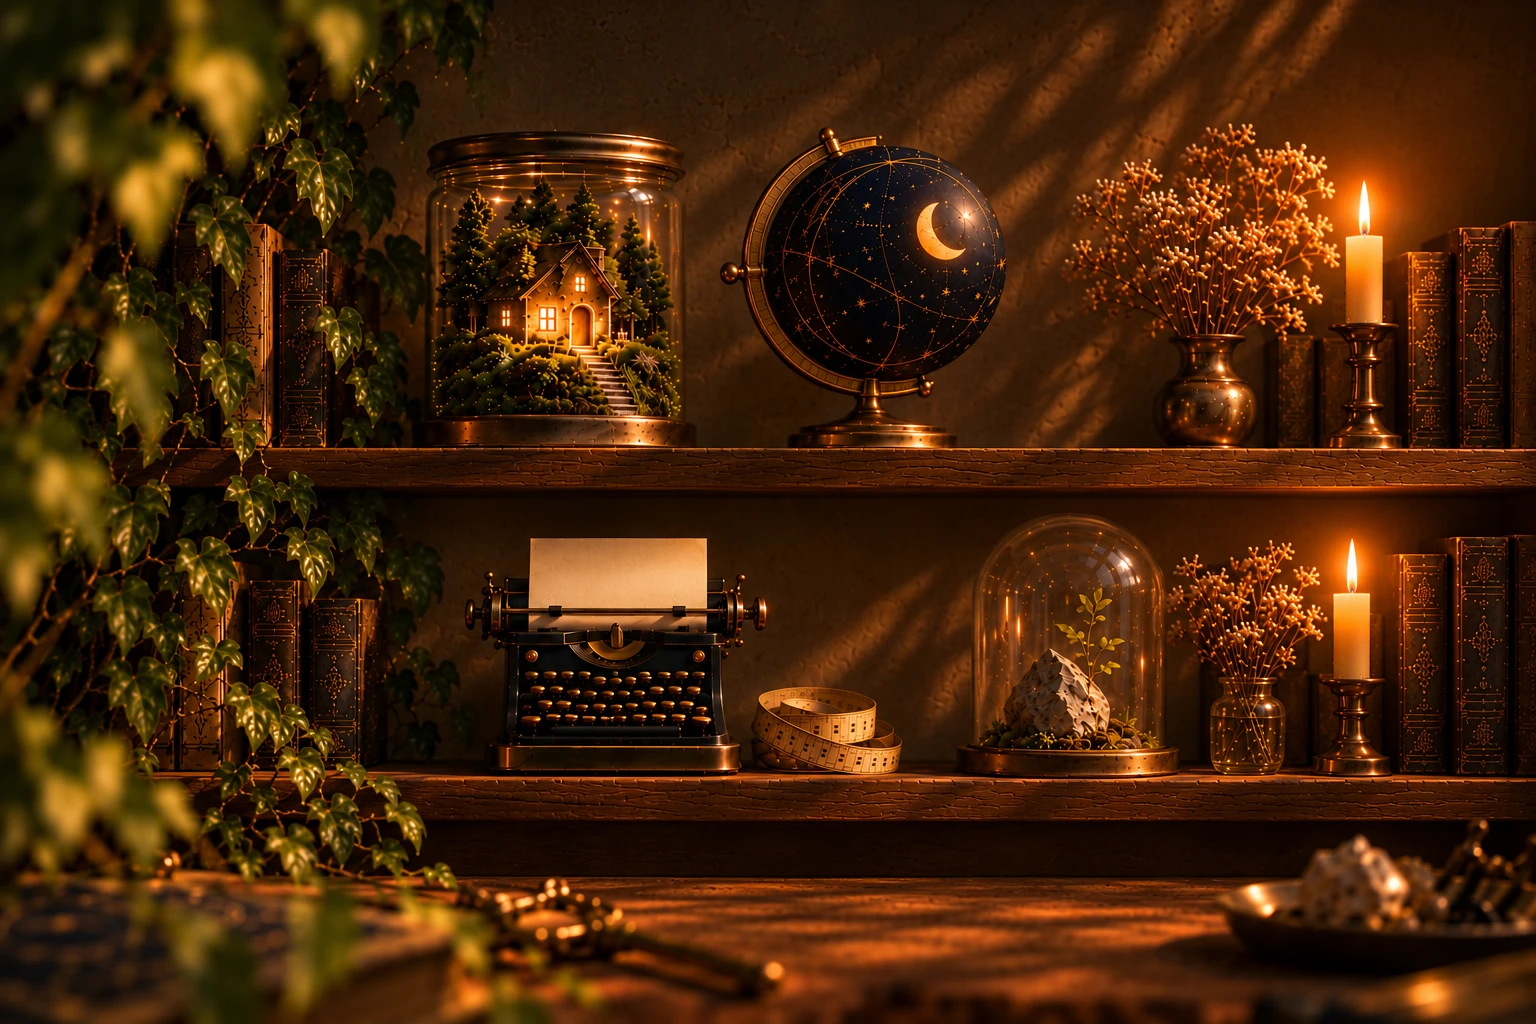
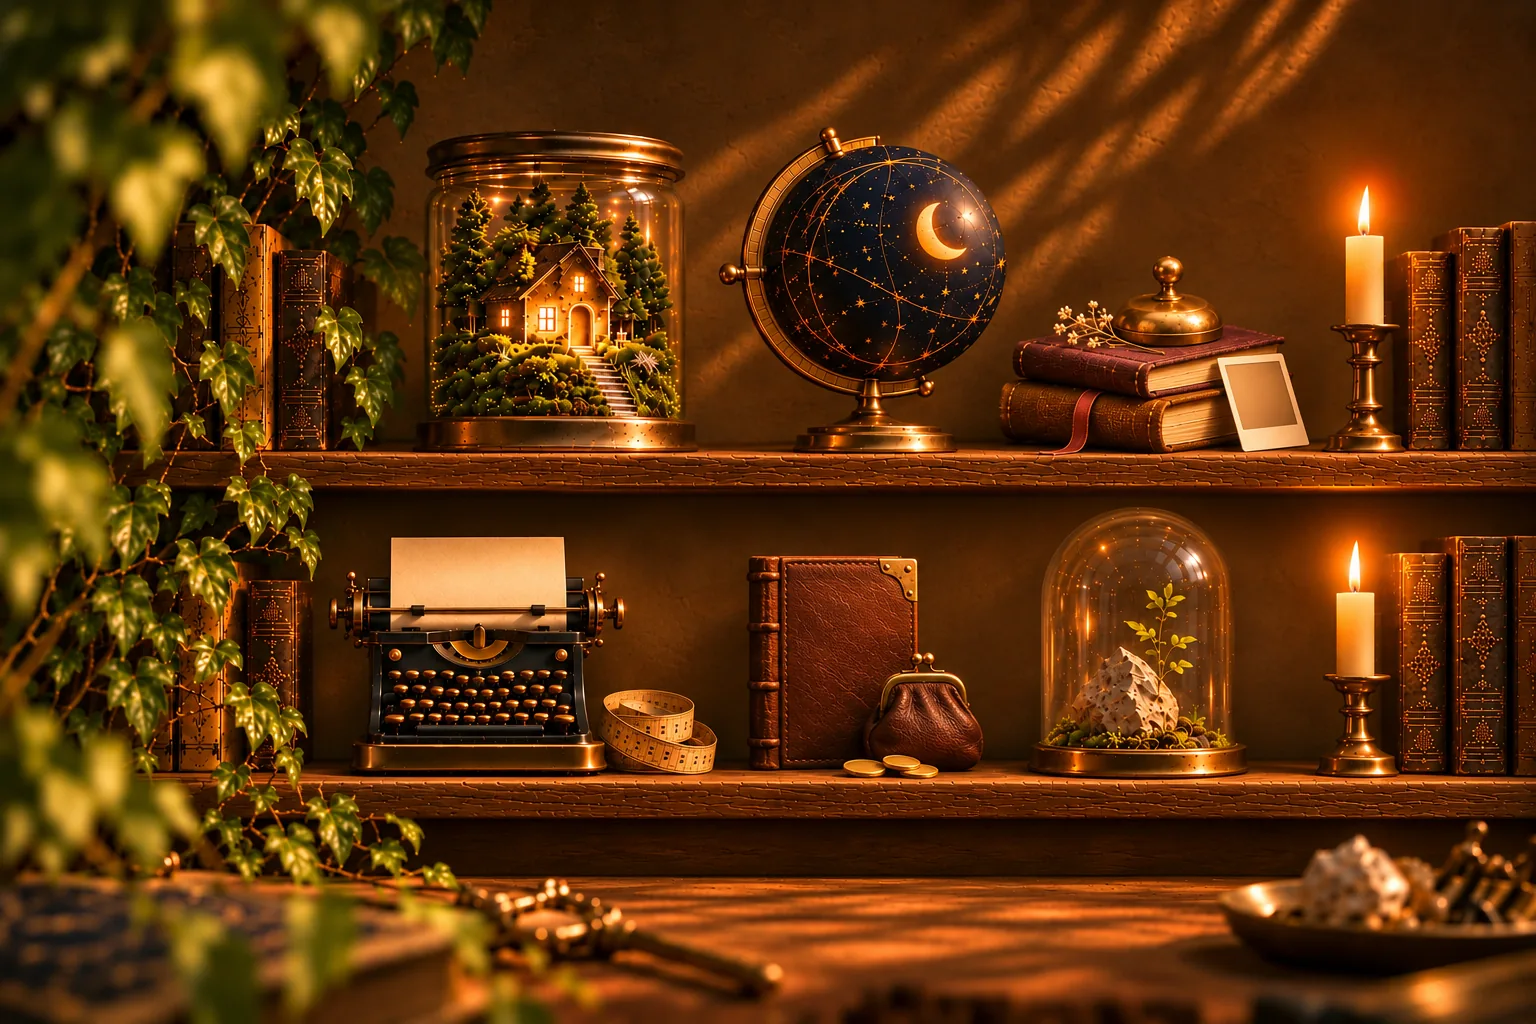
Shelf: Journal (notebooks) and Expenses (ledger) join; dome moves last
New desk and phone paintings (ChatGPT, objects seated on the shelves), boxes
measured, words in EN/PT, phone picture kept centred on its objects (--fx),
share picture from the new scene, tests for the new links.

diff --git a/index.html b/index.html
@@ -4,14 +4,14 @@
 <meta charset="utf-8">
 <meta name="viewport" content="width=device-width, initial-scale=1, viewport-fit=cover">
 <!-- csp-meta: only this site's own scripts run (refresh with ~/bin/csp-meta after editing an inline script) -->
-<meta http-equiv="Content-Security-Policy" content="default-src 'self'; script-src 'self' 'sha256-2IF1OqlYQEsPupU5Mrj3Qv8UhEPG8o6AQ3j7c6CNrDo=' 'sha256-Q251S3Dwxf5ZvD4Dosj3OUp2luLpG5qocmvu0SJpms0=' 'sha256-V5qJba2Pfl34pHXr5tflSMB61vARUx4poZzLZG+ElkI='; style-src 'self' 'unsafe-inline' https://fonts.googleapis.com; font-src 'self' https://fonts.gstatic.com; img-src 'self' data: blob: https:; media-src 'self' data: blob:; connect-src 'self'; frame-src 'none'; worker-src 'self' blob:; object-src 'none'; base-uri 'self'; form-action 'self'">
+<meta http-equiv="Content-Security-Policy" content="default-src 'self'; script-src 'self' 'sha256-2IF1OqlYQEsPupU5Mrj3Qv8UhEPG8o6AQ3j7c6CNrDo=' 'sha256-HP7qtzkDvTQrwBIE5cVG3Av946qu8h9AoY9tzcp2Ok4=' 'sha256-V5qJba2Pfl34pHXr5tflSMB61vARUx4poZzLZG+ElkI='; style-src 'self' 'unsafe-inline' https://fonts.googleapis.com; font-src 'self' https://fonts.gstatic.com; img-src 'self' data: blob: https:; media-src 'self' data: blob:; connect-src 'self'; frame-src 'none'; worker-src 'self' blob:; object-src 'none'; base-uri 'self'; form-action 'self'">
 <title>App do Ivo · Small Apps for a Bigger Life</title>
-<meta name="description" content="Small apps by Ivo Lopes, each one an object on the shelf: Festa, Astro, Job, and more to come.">
+<meta name="description" content="Small apps by Ivo Lopes, each one an object on the shelf: Festa, Astro, Journal, Job, Expenses, and more to come.">
 <meta property="og:title" content="App do Ivo · Small Apps for a Bigger Life">
 <meta property="og:description" content="Small apps by Ivo Lopes, each one an object on the shelf.">
 <meta property="og:url" content="https://appdoivo.com">
 <meta property="og:type" content="website">
-<meta property="og:image" content="https://appdoivo.com/og-image.png?v=7">
+<meta property="og:image" content="https://appdoivo.com/og-image.png?v=8">
 <meta property="og:image:width" content="1200">
 <meta property="og:image:height" content="630">
 <meta name="twitter:card" content="summary_large_image">
@@ -22,8 +22,8 @@
 <meta name="theme-color" content="#2b1b0f">
 <meta name="color-scheme" content="light dark">
 <script>try{var t=localStorage.getItem("theme");if(t)document.documentElement.dataset.theme=t}catch(e){}</script>
-<link rel="preload" as="image" href="img/scene/shelf-desk.webp?v=1" media="(min-width: 721px)">
-<link rel="preload" as="image" href="img/scene/shelf-phone.webp?v=1" media="(max-width: 720px)">
+<link rel="preload" as="image" href="img/scene/shelf-desk.webp?v=2" media="(min-width: 721px)">
+<link rel="preload" as="image" href="img/scene/shelf-phone.webp?v=2" media="(max-width: 720px)">
 <link rel="preconnect" href="https://fonts.googleapis.com">
 <link rel="preconnect" href="https://fonts.gstatic.com" crossorigin>
 <link href="https://fonts.googleapis.com/css2?family=Cormorant+Garamond:wght@600;700&family=EB+Garamond:wght@400;500&display=swap" rel="stylesheet">
@@ -56,8 +56,12 @@
      Its edges are cropped on screens of another shape; the apps sit near the middle. */
   /* Reaches past every screen edge, so nothing shows behind floating browser bars */
   .stage { position: absolute; top: 0; left: 0; right: 0; height: calc(100vh + 160px + var(--below)); height: calc(100lvh + 160px + var(--below)); overflow: hidden; }
-  .scene { --w: 1536; --h: 1024; position: absolute; left: 50%; top: calc(160px + (100lvh + var(--below)) / 2); translate: -50% -50%; z-index: 1; container-type: inline-size;
-    width: max(100vw, calc((100lvh + var(--below)) * var(--w) / var(--h))); aspect-ratio: var(--w) / var(--h); }
+  /* --fx: the point of the picture (0 to 1 across) kept in the middle of the screen; the
+     clamp stops the picture's edge from ever coming inside the screen */
+  .scene { --w: 1536; --h: 1024; --fx: .5; --sw: max(100vw, calc((100lvh + var(--below)) * var(--w) / var(--h)));
+    position: absolute; left: clamp(calc(100vw - var(--sw)), calc(50vw - var(--sw) * var(--fx)), 0px); top: calc(160px + (100lvh + var(--below)) / 2); translate: 0 -50%; z-index: 1; container-type: inline-size;
+    width: var(--sw); aspect-ratio: var(--w) / var(--h); }
+  .scene.phone { --fx: .62; }   /* the phone painting's objects sit right of centre */
   .scene > img { position: absolute; inset: 0; width: 100%; height: 100%; display: block; filter: brightness(var(--dim)) saturate(var(--sat)); }
   .scene::after { content: ""; position: absolute; inset: 0; pointer-events: none; opacity: var(--glow); mix-blend-mode: screen;
     background: radial-gradient(45% 50% at 82% 55%, rgba(255, 170, 70, .28), transparent 70%), radial-gradient(30% 30% at 18% 52%, rgba(255, 190, 90, .18), transparent 70%); }
@@ -118,29 +122,37 @@
   // (x, y, w, h). To add an app: ask ChatGPT
   // for the scene with the new object, then measure its box here (?debug shows the boxes).
   const SCENES = {
-    desk: { src: "img/scene/shelf-desk.webp?v=1", w: 1536, h: 1024, apps: {
-      festa: [27.7, 12.7, 17.6, 30.8], astro: [46.9, 12.2, 18.6, 31.4], job: [28.3, 52.2, 30.3, 23.1, 35.8], soon: [62.4, 50.3, 14.3, 25.4] } },
-    phone: { src: "img/scene/shelf-phone.webp?v=1", w: 1024, h: 1536, apps: {
-      festa: [37.6, 6.0, 25.7, 19.1], astro: [39.4, 29.9, 23.3, 15.4], job: [35.2, 50.7, 39.1, 14.8, 36], soon: [40.0, 69.0, 23.0, 17.9] } },
+    desk: { src: "img/scene/shelf-desk.webp?v=2", w: 1536, h: 1024, apps: {
+      festa: [27.3, 12.7, 18.1, 31.4], astro: [47.0, 12.3, 18.5, 32.0], journal: [65.0, 22.0, 20.4, 22.3],
+      job: [21.5, 52.3, 25.4, 23.6, 37], expenses: [48.5, 54.2, 15.7, 21.7], soon: [67.3, 49.2, 13.7, 26.7] } },
+    phone: { src: "img/scene/shelf-phone.webp?v=2", w: 1024, h: 1536, apps: {
+      festa: [36.4, 5.9, 21.3, 19.7], astro: [40.0, 29.5, 22.6, 16.2], journal: [61.0, 11.0, 29.5, 14.6],
+      job: [34.8, 50.5, 40.7, 15.3, 36], expenses: [34.1, 72.0, 24.3, 14.9], soon: [60.0, 69.4, 18.7, 17.5] } },
   };
   const APPS = [
     { id: "festa", href: "https://festa-demo.appdoivo.com" },
     { id: "astro", href: "https://astro.appdoivo.com" },
+    { id: "journal", href: "https://journal.appdoivo.com" },
     { id: "job", href: "https://job.appdoivo.com" },
+    { id: "expenses", href: "https://expenses.appdoivo.com" },
     { id: "soon", href: null },
   ];
   const T = {
     en: { tagline: "Small Apps for a Bigger Life", other: "PT", otherLabel: "Ver em português", toDark: "Dark Mode", toLight: "Light Mode", apps: "Apps",
-      title: "App do Ivo · Small Apps for a Bigger Life", alt: "A bookshelf in afternoon light with a jar holding a mossy cottage, a star globe, a typewriter and a glass dome with a sprout.",
+      title: "App do Ivo · Small Apps for a Bigger Life", alt: "A bookshelf in afternoon light with a jar holding a mossy cottage, a star globe, a stack of notebooks with an instant photo, a typewriter, a leather ledger with a coin purse and a glass dome with a sprout.",
       festa: ["Festa", "Celebrate the Days That Matter", "Festa, the birthday party app: try the demo"],
       astro: ["Astro", "The Sky at Any Moment", "Astro, the sky at any moment"],
       job: ["Job", "A CV for Every Job", "Job, a CV tailored to every job"],
+      journal: ["Journal", "A Quiet Place for Your Mind", "Journal, a private diary, notes and photo albums"],
+      expenses: ["Expenses", "Your Money, Month by Month", "Expenses, your money month by month"],
       soon: ["Soon", "More to Come", "More apps to come"] },
     pt: { tagline: "Pequenas Apps para uma Vida Maior", other: "EN", otherLabel: "View in English", toDark: "Modo Escuro", toLight: "Modo Claro", apps: "Apps",
-      title: "App do Ivo · Pequenas Apps para uma Vida Maior", alt: "Uma estante à luz da tarde com um frasco com uma casa entre o musgo, um globo de estrelas, uma máquina de escrever e uma redoma com um rebento.",
+      title: "App do Ivo · Pequenas Apps para uma Vida Maior", alt: "Uma estante à luz da tarde com um frasco com uma casa entre o musgo, um globo de estrelas, uma pilha de cadernos com uma fotografia instantânea, uma máquina de escrever, um livro de contas com um porta-moedas e uma redoma com um rebento.",
       festa: ["Festa", "Celebrar os Dias Que Importam", "Festa, a app de festa de anos: experimentar a demo"],
       astro: ["Astro", "O Céu a Qualquer Momento", "Astro, o céu a qualquer momento"],
       job: ["Job", "Um CV para Cada Vaga", "Job, um CV à medida de cada vaga"],
+      journal: ["Diário", "Um Lugar Calmo para a Mente", "Diário, um diário privado, notas e álbuns de fotos"],
+      expenses: ["Despesas", "O Seu Dinheiro, Mês a Mês", "Despesas, o seu dinheiro mês a mês"],
       soon: ["Em Breve", "Mais a Caminho", "Mais apps a caminho"] },
   };
   let saved = null; try { saved = localStorage.getItem("lang"); } catch (_) {}

diff --git a/README.md b/README.md
@@ -6,13 +6,15 @@
 afternoon light (dimmed with a candle glow by night), one object per app on the shelf, no plaques and no text on the page.
 Pointing at or tapping an object lights a small warm glow on it and shows its name under it.
 A wide scene for computers, a tall one for phones (`img/scene/`, from ChatGPT; originals in
-`~/Downloads/appdoivo-refs/scene/`). 
+`~/Downloads/appdoivo-refs/design/`, chat "Hub · Shelf (appdoivo.com)" in the ChatGPT project "Claude Design Studio"). 
 
 | Object | App | Address |
 | --- | --- | --- |
 | Jar with a mossy cottage | Festa, the birthday party app | demo: https://festa-demo.appdoivo.com |
 | Star globe | Astro, the sky at any moment | https://astro.appdoivo.com |
+| Stack of notebooks with an instant photo | Journal, a quiet place for your mind | https://journal.appdoivo.com |
 | Typewriter and tape measure | Job, a CV tailored to every job | https://job.appdoivo.com |
+| Leather ledger with a coin purse | Expenses, your money month by month | https://expenses.appdoivo.com |
 | Glass dome with a sprout | Soon, more to come | (not a link) |
 
 ## Adding an app
